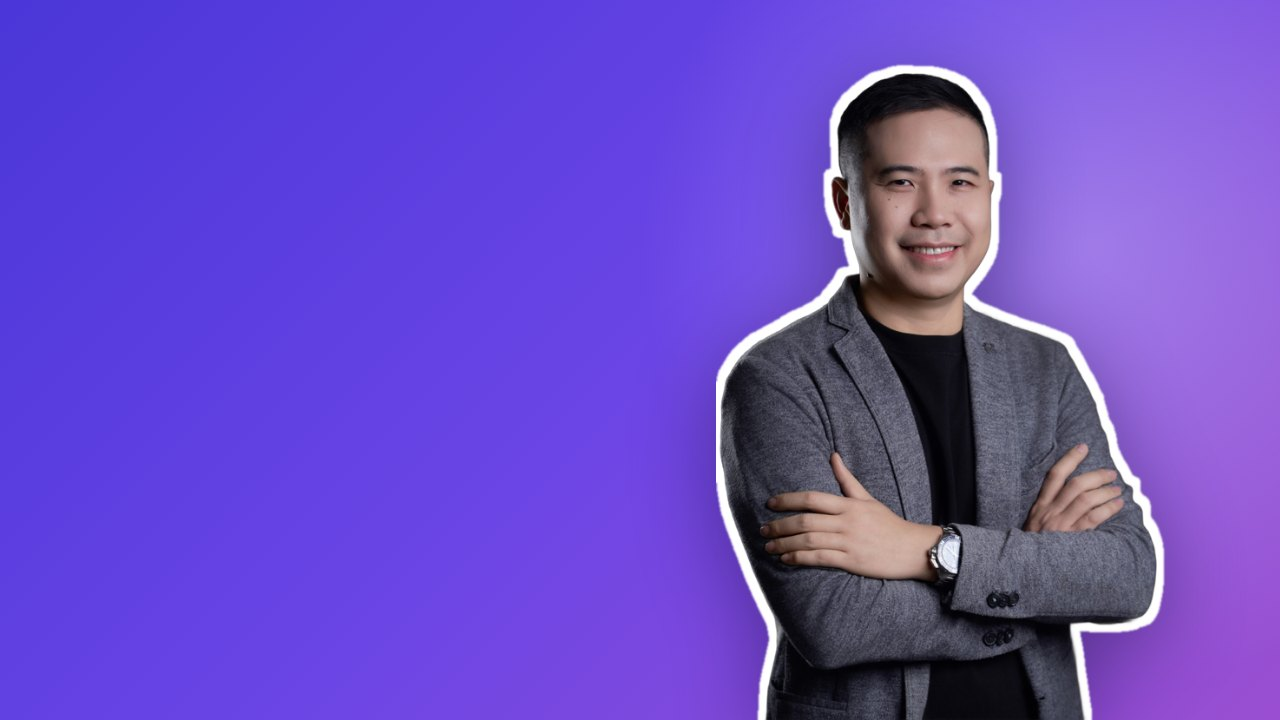
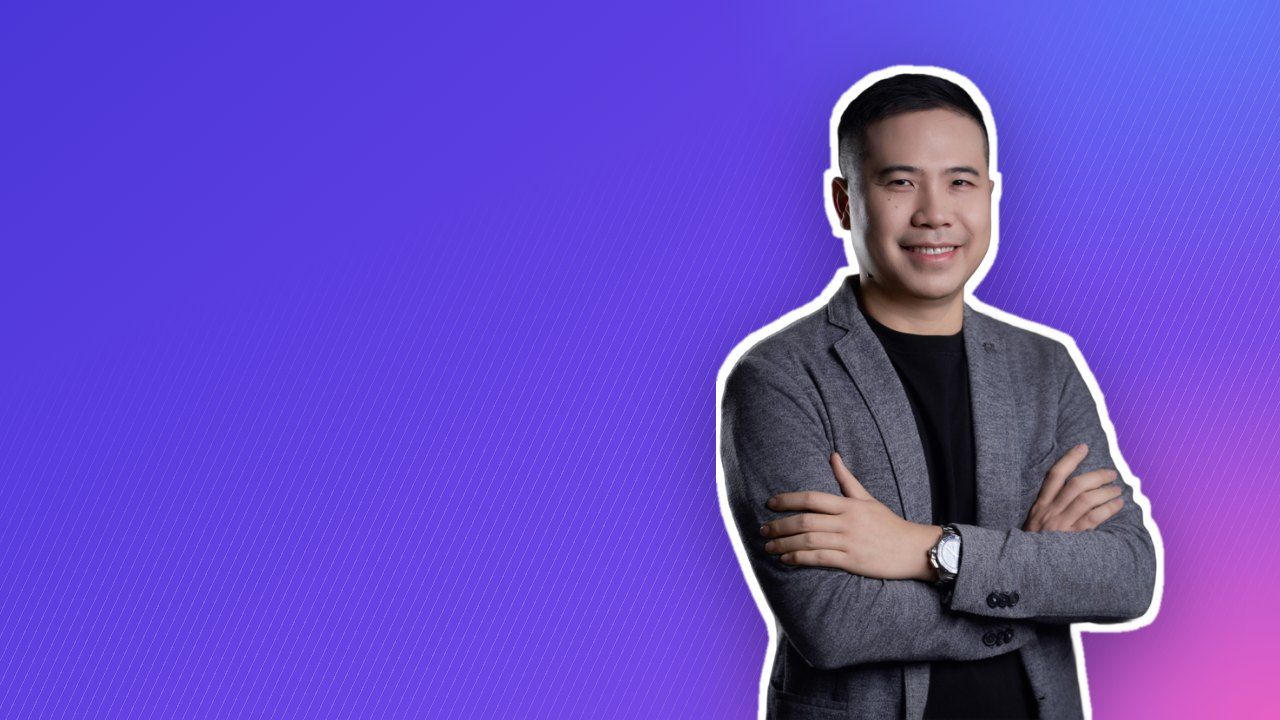
Nền chuyển màu nhiều lớp (tím, hồng, cam, xanh) cho thẻ khoá học, đầu trang khoá học và thumbnail; dải con số nền tối số chuyển màu; ô sáng có quầng phấn
Claude-Session: https://claude.ai/code/session_01R1JQNXKSkK2vrspryuBMNZ

Changed region(s): [[0.7188, 0.0, 1.0, 0.6111], [0.8438, 0.7028, 1.0, 1.0]]

diff --git a/trang-chu.css b/trang-chu.css
@@ -1242,3 +1242,40 @@
   .foot-site{ font-size:14px; color:var(--text-2); font-weight:500; }
   .foot-name{ font-size:13px; color:var(--muted); }
   .how-tl .qr img{ width:140px !important; max-width:140px !important; } .how-tl .qr{ margin:2px 0 10px !important; }
+
+/* ===== Nền chuyển màu nhiều lớp (tím, hồng, cam, xanh) ===== */
+:root{
+  --mesh-1: radial-gradient(65% 75% at 100% 100%, rgba(240,98,192,.9), rgba(240,98,192,0) 70%), radial-gradient(55% 60% at 95% 0%, rgba(92,124,250,.85), rgba(92,124,250,0) 70%), linear-gradient(140deg, #4A36D8 0%, #6B45E6 60%, #8B4FE0 100%);
+  --mesh-2: radial-gradient(60% 65% at 0% 100%, rgba(110,200,255,.8), rgba(110,200,255,0) 70%), radial-gradient(55% 60% at 100% 5%, rgba(240,98,192,.7), rgba(240,98,192,0) 70%), linear-gradient(140deg, #3E3BD8 0%, #6248E8 60%, #7B4BEA 100%);
+  --mesh-3: radial-gradient(70% 75% at 100% 100%, rgba(255,154,90,.95), rgba(255,154,90,0) 70%), radial-gradient(50% 55% at 75% 45%, rgba(240,98,192,.6), rgba(240,98,192,0) 70%), linear-gradient(140deg, #5340E6 0%, #7A4FE0 60%, #9A4FD0 100%);
+  --mesh-4: radial-gradient(60% 65% at 100% 0%, rgba(255,170,110,.9), rgba(255,170,110,0) 70%), radial-gradient(60% 70% at 0% 100%, rgba(120,140,255,.75), rgba(120,140,255,0) 70%), linear-gradient(140deg, #7A3FD8 0%, #A84AC8 55%, #D8558F 100%);
+  --mesh-5: radial-gradient(60% 70% at 100% 100%, rgba(140,230,240,.75), rgba(140,230,240,0) 70%), radial-gradient(55% 55% at 85% 5%, rgba(240,98,192,.65), rgba(240,98,192,0) 70%), linear-gradient(140deg, #4A36D8 0%, #6B45E6 60%, #7A4FE0 100%);
+  --silk: repeating-linear-gradient(115deg, rgba(255,255,255,0) 0 7px, rgba(255,255,255,.16) 7px 8px);
+  --pastel: radial-gradient(55% 45% at 15% 10%, rgba(255,170,200,.35), rgba(255,170,200,0) 70%), radial-gradient(50% 45% at 90% 20%, rgba(150,170,255,.35), rgba(150,170,255,0) 70%), radial-gradient(60% 50% at 80% 100%, rgba(255,190,140,.30), rgba(255,190,140,0) 70%), radial-gradient(50% 45% at 10% 95%, rgba(170,230,245,.30), rgba(170,230,245,0) 70%), #fff;
+}
+  .course.c-violet{ background:var(--mesh-1) !important; }
+  .course.c-blue  { background:var(--mesh-2) !important; }
+  .course.c-teal  { background:var(--mesh-3) !important; }
+  .course.c-plum  { background:var(--mesh-4) !important; }
+  .course.c-soon  { background:var(--mesh-5) !important; }
+  /* dải lụa mảnh chạy chéo, mờ dần hai đầu */
+  .course::before{ content:""; position:absolute; inset:0; z-index:-1; border-radius:inherit; pointer-events:none; background:var(--silk);
+    -webkit-mask-image:linear-gradient(160deg, transparent 30%, #000 55%, #000 70%, transparent 92%); mask-image:linear-gradient(160deg, transparent 30%, #000 55%, #000 70%, transparent 92%); }
+  .course::after{ opacity:.7; }
+
+  /* Con số: dải tối, số chuyển màu hồng – cam – tím */
+  .stats-band{ background:linear-gradient(180deg, #121A40 0%, #1E2260 55%, #3A2E9A 100%); color:#fff; position:relative; overflow:hidden; }
+  .stats-band::after{ content:""; position:absolute; left:-10%; right:-10%; bottom:-40%; height:70%; border-radius:50% 50% 0 0;
+    background:radial-gradient(60% 60% at 50% 100%, rgba(140,230,240,.35), rgba(110,90,240,.25) 45%, rgba(110,90,240,0) 75%); pointer-events:none; }
+  .stats-band .wrap{ position:relative; z-index:1; }
+  .stats-band .stats, .stats-band .stat{ border-color:rgba(255,255,255,.12) !important; }
+  .stats-band .stat-pre{ color:#A9B2D6; }
+  .stats-band .stat-text{ color:#D5DAF0; }
+  .stats-band .stat-num{ background:linear-gradient(100deg, #FFB4D2 0%, #FFB27A 40%, #C9B8FF 100%); -webkit-background-clip:text; background-clip:text; }
+  .stats-band .stat-num small{ -webkit-text-fill-color:#D5DAF0; color:#D5DAF0; }
+  .stats-band .stat-num .plus{ -webkit-text-fill-color:#FFB27A; }
+  .stats-band .stat-img{ background:transparent; }
+
+  /* Ô sáng: nền trắng có quầng phấn hồng, xanh, cam */
+  .book-visual{ background:var(--pastel) !important; }
+  .how-box{ background:var(--pastel) !important; }

diff --git a/cong-cu/thumbnail/mau.html b/cong-cu/thumbnail/mau.html
@@ -32,9 +32,26 @@
   .sub{ margin-top:22px; font-size:32px; line-height:1.3; font-weight:500; color:rgba(255,255,255,.85); max-width:600px; text-wrap:balance; }
   .name{ position:absolute; right:40px; bottom:36px; text-align:right; font-size:24px; font-weight:700; text-shadow:0 2px 10px rgba(0,0,0,.6); }
   .name span{ display:block; font-size:18px; font-weight:500; opacity:.85; }
+
+/* ===== Nền chuyển màu nhiều lớp (tím, hồng, cam, xanh) ===== */
+:root{
+  --mesh-1: radial-gradient(65% 75% at 100% 100%, rgba(240,98,192,.9), rgba(240,98,192,0) 70%), radial-gradient(55% 60% at 95% 0%, rgba(92,124,250,.85), rgba(92,124,250,0) 70%), linear-gradient(140deg, #4A36D8 0%, #6B45E6 60%, #8B4FE0 100%);
+  --mesh-2: radial-gradient(60% 65% at 0% 100%, rgba(110,200,255,.8), rgba(110,200,255,0) 70%), radial-gradient(55% 60% at 100% 5%, rgba(240,98,192,.7), rgba(240,98,192,0) 70%), linear-gradient(140deg, #3E3BD8 0%, #6248E8 60%, #7B4BEA 100%);
+  --mesh-3: radial-gradient(70% 75% at 100% 100%, rgba(255,154,90,.95), rgba(255,154,90,0) 70%), radial-gradient(50% 55% at 75% 45%, rgba(240,98,192,.6), rgba(240,98,192,0) 70%), linear-gradient(140deg, #5340E6 0%, #7A4FE0 60%, #9A4FD0 100%);
+  --mesh-4: radial-gradient(60% 65% at 100% 0%, rgba(255,170,110,.9), rgba(255,170,110,0) 70%), radial-gradient(60% 70% at 0% 100%, rgba(120,140,255,.75), rgba(120,140,255,0) 70%), linear-gradient(140deg, #7A3FD8 0%, #A84AC8 55%, #D8558F 100%);
+  --mesh-5: radial-gradient(60% 70% at 100% 100%, rgba(140,230,240,.75), rgba(140,230,240,0) 70%), radial-gradient(55% 55% at 85% 5%, rgba(240,98,192,.65), rgba(240,98,192,0) 70%), linear-gradient(140deg, #4A36D8 0%, #6B45E6 60%, #7A4FE0 100%);
+  --silk: repeating-linear-gradient(115deg, rgba(255,255,255,0) 0 7px, rgba(255,255,255,.16) 7px 8px);
+  --pastel: radial-gradient(55% 45% at 15% 10%, rgba(255,170,200,.35), rgba(255,170,200,0) 70%), radial-gradient(50% 45% at 90% 20%, rgba(150,170,255,.35), rgba(150,170,255,0) 70%), radial-gradient(60% 50% at 80% 100%, rgba(255,190,140,.30), rgba(255,190,140,0) 70%), radial-gradient(50% 45% at 10% 95%, rgba(170,230,245,.30), rgba(170,230,245,0) 70%), #fff;
+}
+
+  .c-violet .bg{ background:var(--mesh-1); } .c-blue .bg{ background:var(--mesh-2); } .c-teal .bg{ background:var(--mesh-3); }
+  .c-plum .bg{ background:var(--mesh-4); } .c-slate .bg{ background:var(--mesh-5); }
+  .silk{ position:absolute; inset:0; background:repeating-linear-gradient(115deg, rgba(255,255,255,0) 0 9px, rgba(255,255,255,.16) 9px 10px);
+    -webkit-mask-image:linear-gradient(160deg, transparent 30%, #000 55%, #000 70%, transparent 92%); mask-image:linear-gradient(160deg, transparent 30%, #000 55%, #000 70%, transparent 92%); }
+  .glow{ display:none; }
 </style></head>
 <body>
-  <div class="bg"></div><div class="glow"></div><img class="photo" id="p" alt="">
+  <div class="bg"></div><div class="silk"></div><div class="glow"></div><img class="photo" id="p" alt="">
   <div class="txt">
     <div class="brand"><img src="../../anh/logo.png" alt="">hocnghenoithat<b>.vn</b></div>
     <div class="tag" id="k"></div>

diff --git a/khoa-hoc/khoa-hoc.css b/khoa-hoc/khoa-hoc.css
@@ -137,3 +137,19 @@ figcaption{ margin-top:8px; font-size:14px; color:var(--muted); }
 .other-row b{ font-size:16.5px; font-weight:500; }
 .o-go{ flex:none; padding:7px 14px; border-radius:999px; font-size:13.5px; font-weight:600; color:#fff; background:linear-gradient(110deg, #533AFD, #E0569B); white-space:nowrap; }
 .other-row:hover b{ color:var(--primary); }
+
+/* ===== Nền chuyển màu nhiều lớp (tím, hồng, cam, xanh) ===== */
+:root{
+  --mesh-1: radial-gradient(65% 75% at 100% 100%, rgba(240,98,192,.9), rgba(240,98,192,0) 70%), radial-gradient(55% 60% at 95% 0%, rgba(92,124,250,.85), rgba(92,124,250,0) 70%), linear-gradient(140deg, #4A36D8 0%, #6B45E6 60%, #8B4FE0 100%);
+  --mesh-2: radial-gradient(60% 65% at 0% 100%, rgba(110,200,255,.8), rgba(110,200,255,0) 70%), radial-gradient(55% 60% at 100% 5%, rgba(240,98,192,.7), rgba(240,98,192,0) 70%), linear-gradient(140deg, #3E3BD8 0%, #6248E8 60%, #7B4BEA 100%);
+  --mesh-3: radial-gradient(70% 75% at 100% 100%, rgba(255,154,90,.95), rgba(255,154,90,0) 70%), radial-gradient(50% 55% at 75% 45%, rgba(240,98,192,.6), rgba(240,98,192,0) 70%), linear-gradient(140deg, #5340E6 0%, #7A4FE0 60%, #9A4FD0 100%);
+  --mesh-4: radial-gradient(60% 65% at 100% 0%, rgba(255,170,110,.9), rgba(255,170,110,0) 70%), radial-gradient(60% 70% at 0% 100%, rgba(120,140,255,.75), rgba(120,140,255,0) 70%), linear-gradient(140deg, #7A3FD8 0%, #A84AC8 55%, #D8558F 100%);
+  --mesh-5: radial-gradient(60% 70% at 100% 100%, rgba(140,230,240,.75), rgba(140,230,240,0) 70%), radial-gradient(55% 55% at 85% 5%, rgba(240,98,192,.65), rgba(240,98,192,0) 70%), linear-gradient(140deg, #4A36D8 0%, #6B45E6 60%, #7A4FE0 100%);
+  --silk: repeating-linear-gradient(115deg, rgba(255,255,255,0) 0 7px, rgba(255,255,255,.16) 7px 8px);
+  --pastel: radial-gradient(55% 45% at 15% 10%, rgba(255,170,200,.35), rgba(255,170,200,0) 70%), radial-gradient(50% 45% at 90% 20%, rgba(150,170,255,.35), rgba(150,170,255,0) 70%), radial-gradient(60% 50% at 80% 100%, rgba(255,190,140,.30), rgba(255,190,140,0) 70%), radial-gradient(50% 45% at 10% 95%, rgba(170,230,245,.30), rgba(170,230,245,0) 70%), #fff;
+}
+.c-violet{ --g:var(--mesh-1); } .c-blue{ --g:var(--mesh-2); } .c-teal{ --g:var(--mesh-3); } .c-plum{ --g:var(--mesh-4); } .c-slate{ --g:var(--mesh-5); }
+.hero{ position:relative; isolation:isolate; }
+.hero::before{ content:""; position:absolute; inset:0; z-index:-1; background:var(--silk); pointer-events:none;
+  -webkit-mask-image:linear-gradient(160deg, transparent 35%, #000 58%, #000 72%, transparent 95%); mask-image:linear-gradient(160deg, transparent 35%, #000 58%, #000 72%, transparent 95%); }
+.how-box{ background:var(--pastel) !important; }

diff --git a/index.html b/index.html
@@ -64,7 +64,7 @@
 </section>
 
 <!-- ==================== CON SỐ ==================== -->
-<section class="section" aria-label="Con số">
+<section class="section stats-band" aria-label="Con số">
   <div class="wrap">
     <ul class="stats">
       <li class="stat">
